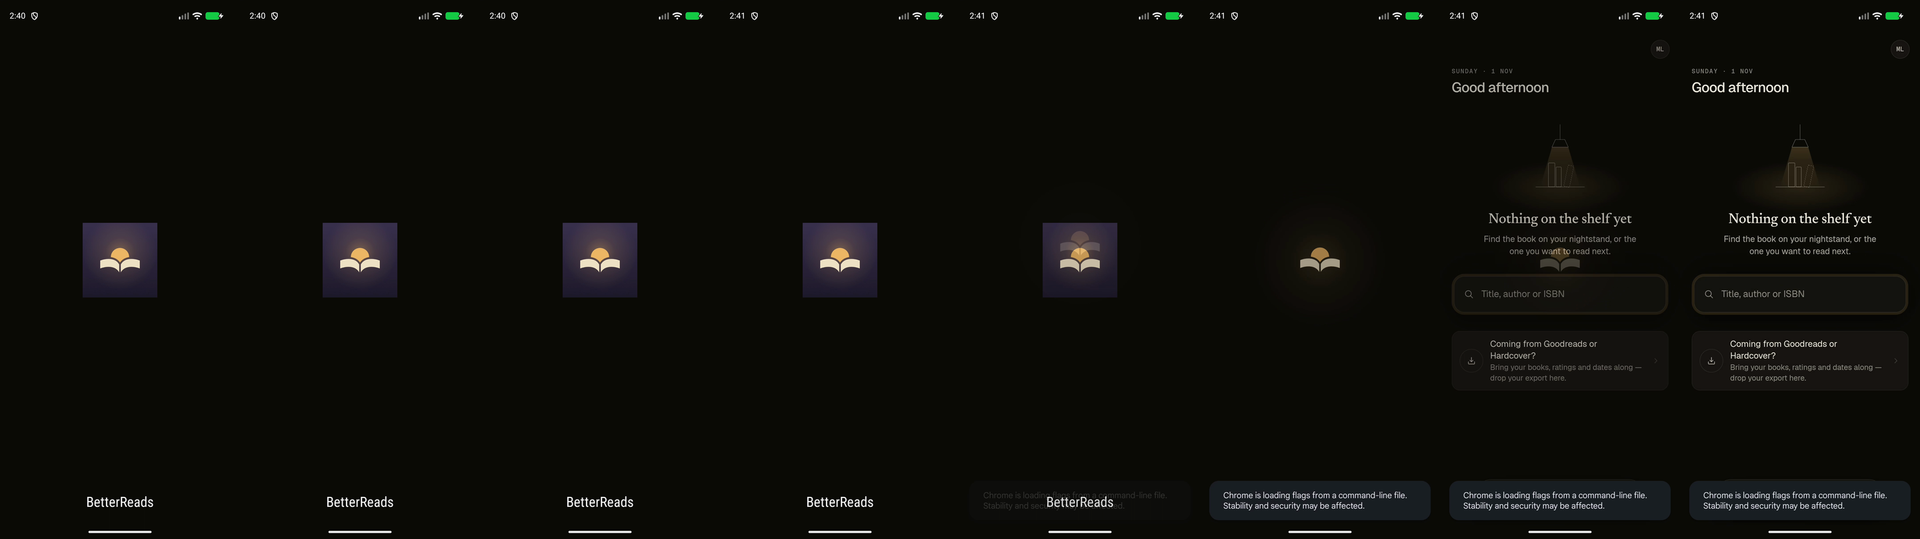
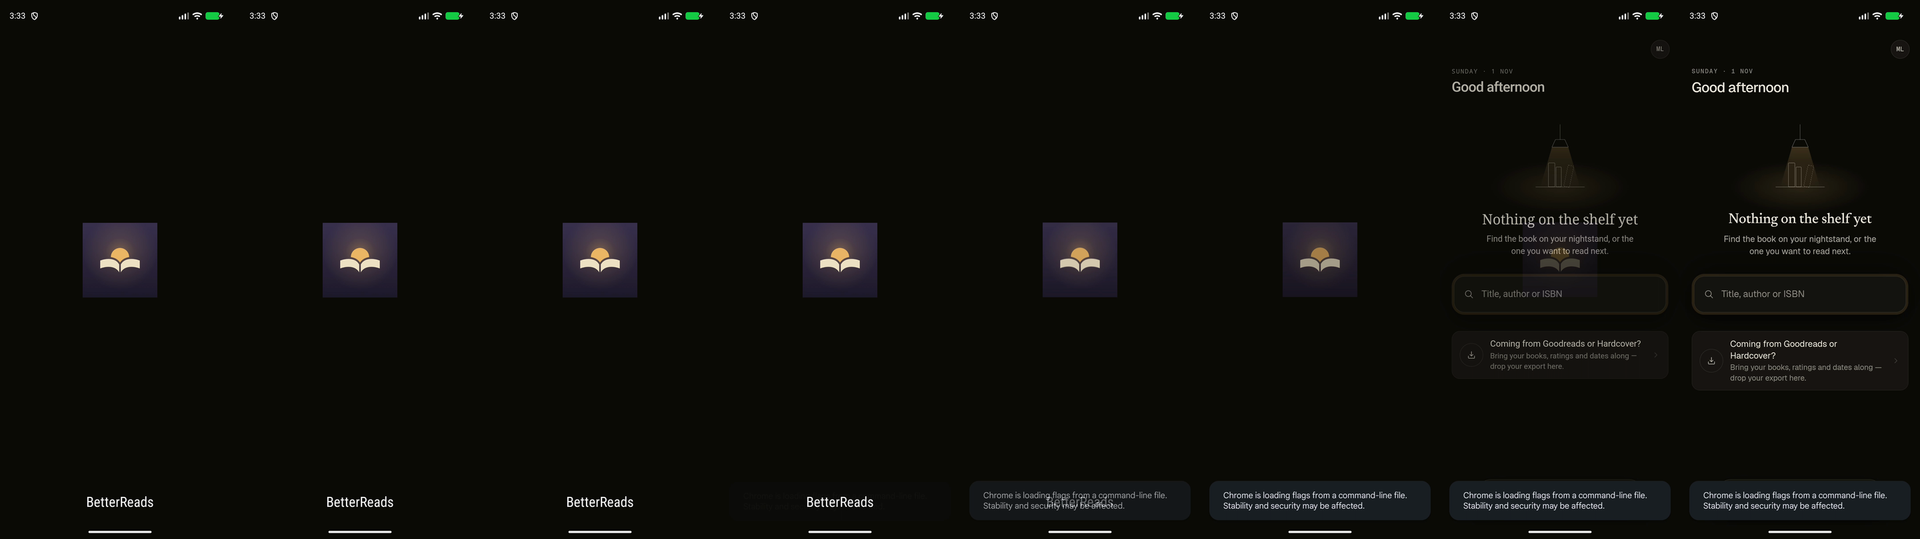
feat(brand): the launch frame draws the launch screen's tile too
The frame's first paint is now the launch screen's whole picture: the night room, the icon's plum
tile with the mark in it, and the app's name at the foot, all at the places the system drew them
(measured on the emulator against Chrome's own launch screen). One `instant` after that paint the
tile and the name dissolve into the room over `wave` while the lamp's glow comes up out of the mark,
so the handover is invisible and what changes afterwards is the light, not the picture.

The tile is CSS (a linear gradient in the icon's own two room colours and a radial dome for its
glow), so it costs no bytes and can dissolve; the mark stays the generated transparent PNG inlined
as a data URI, and the name is set in the system's face so no web font has to arrive for it. Tests
pin the tile's colours to design/icons/app/icon.svg and the name to app.name in the message files.

docs/MOTION.md and docs/DESIGN.md describe the frame as it now is.

diff --git a/web/app/spa-loading-template.html b/web/app/spa-loading-template.html
@@ -1,19 +1,26 @@
 <!-- The launch takeover (docs/plans/new-logo.md, B; docs/MOTION.md, "Launch takeover").
-     This is the installed app's first paint: the same picture the system drew as its launch screen — the night
-     room, the mark in the place the launch screen had it — so the handover from that static splash is invisible,
-     and the lamp's glow can swell out of the mark into the room (the styles are in app/assets/css/main.css, under
-     "The launch takeover": the app's blocking stylesheet, so they are there at this paint).
-     Nuxt renders this file into the document (spaLoadingTemplate; a file at app/spa-loading-template.html is found
-     by itself), before any JavaScript runs, and removes its wrapper when the app has mounted;
-     app/plugins/launch-takeover.client.ts takes the frame over and lets it leave. A browser tab never shows it
+     This is the installed app's first paint, and it is the picture the system drew as its launch screen: the night
+     room, the icon's tile (its plum room, its glow and the mark) and the app's name at the foot — so the handover
+     from that static splash to the page is invisible. Then the tile dissolves over `wave` into the room while the
+     lamp's glow swells out of the mark: from there the frame is the mark alone on the night room (the mark is
+     underneath the tile, on the same pixels, so nothing moves as the tile goes). The styles are in
+     app/assets/css/main.css, under "The launch takeover" — the app's blocking stylesheet, so they are there at this
+     paint.
+     Nuxt renders this file into the document (spaLoadingTemplate; a file at app/spa-loading-template.html is found by
+     itself), before any JavaScript runs, and removes its wrapper when the app has mounted;
+     app/plugins/launch-takeover.client.ts takes the frame over and lets it go. A browser tab never shows it
      (`@media (display-mode: standalone)`), and a page the SPA navigates to loads no document, so this only ever
      appears on a cold start of the installed app.
-     The mark is a transparent PNG, generated from the icon by scripts/render-icons.mjs (the 108 dp canvas with its
-     plum room taken away), inlined as a data URI so the first paint waits on nothing, and at three device pixels
-     per CSS pixel so its edges are sharp on a phone. -->
+     The mark is the icon's own 108 dp canvas with its room taken away: a PNG generated by scripts/render-icons.mjs
+     and inlined as a data URI, so the first paint fetches nothing. The tile around it is painted in CSS (main.css),
+     so that it can dissolve; its two room colours are the icon's own, and tests/launch-takeover.test.ts pins them to
+     design/icons/app/icon.svg. The name is the brand, the same in both message files and not translated; the static
+     frame cannot read them, so a test pins the two together. -->
 <div class="launch-frame" data-launch-frame data-theme="dark" aria-hidden="true">
   <div class="launch-frame-glow"></div>
+  <div class="launch-frame-tile"></div>
   <!-- launch-mark:start -->
[1 lines of base64/hex data omitted]
   <!-- launch-mark:end -->
+  <p class="launch-frame-name">BetterReads</p>
 </div>

diff --git a/web/app/assets/css/main.css b/web/app/assets/css/main.css
@@ -585,16 +585,59 @@ html:is([data-profile-transition='back'], [data-push-transition='back'])::view-t
 }
 .launch-frame > * {
   grid-area: 1 / 1;
+}
+.launch-frame-glow,
+.launch-frame-mark,
+.launch-frame-tile {
   translate: 0 calc(-1 * var(--launch-frame-lift));
 }
 .launch-frame-mark {
   width: var(--launch-frame-icon);
   height: auto;
 }
-/* The one motion here: the lamp's light. It starts one `instant` after the frame is painted, so the first
-   frame of the handover is the launch screen's own, and it holds its end until the app is ready (the frame
-   leaves over `exit`, which may cut the swell short). The resting glow is the light the launch screen's icon
-   held; the end is the room lit. */
+/* The launch screen's tile around the mark: the icon's own plum room (#3c3251 → #211b2e) and the dome of its glow,
+   exactly as `design/icons/app/icon.svg` draws them (tests/launch-takeover.test.ts pins the two colours to that file),
+   on the icon's own canvas. Painted in CSS so it can dissolve; the launch screen draws it as a square, mask and all.
+   It is the one thing a member sees change at the handover: it dissolves into the night room over `wave`, leaving the
+   mark alone with the lamp's light swelling out of it, and it starts one `instant` after the paint, with that glow, so
+   the handover's first frames are the launch screen's own. The mark sits underneath it, on the same pixels, so nothing
+   moves as the tile goes. */
+.launch-frame-tile {
+  width: var(--launch-frame-icon);
+  height: var(--launch-frame-icon);
+  background:
+    radial-gradient(
+      circle calc(var(--launch-frame-icon) / 2) at 50% 39.9%,
+      color-mix(in srgb, var(--color-accent) 40%, transparent),
+      color-mix(in srgb, var(--color-accent) 14%, transparent) 40%,
+      transparent
+    ),
+    linear-gradient(180deg, #3c3251, #211b2e);
+  animation: launch-picture var(--duration-wave) var(--ease-wave) var(--duration-instant) both;
+}
+/* The app's name, where the launch screen draws it (the system's own face, Roboto on Android: no web font to wait
+   for, and the same glyphs), on the same clock as the tile. */
+.launch-frame-name {
+  position: absolute;
+  inset-inline: 0;
+  bottom: 24px;
+  margin: 0;
+  font-family: Roboto, 'Helvetica Neue', Arial, sans-serif;
+  font-size: 25px;
+  font-weight: 400;
+  line-height: 1;
+  text-align: center;
+  color: white;
+  animation: launch-picture var(--duration-wave) var(--ease-wave) var(--duration-instant) both;
+}
+@keyframes launch-picture {
+  to {
+    opacity: 0;
+  }
+}
+/* The one motion here: the lamp's light. It comes up from nothing (the paint before it is the launch screen's own
+   picture, tile and all) one `instant` after the frame is painted — the delay holds its `from` state — and it
+   holds its end until the app is ready (the frame leaves over `exit`, which may cut the swell short). */
 .launch-frame-glow {
   width: calc(2 * var(--launch-frame-icon));
   height: calc(2 * var(--launch-frame-icon));
@@ -605,24 +648,30 @@ html:is([data-profile-transition='back'], [data-push-transition='back'])::view-t
     color-mix(in srgb, var(--color-accent) 10%, transparent) 45%,
     transparent
   );
-  opacity: 0.5;
-  scale: 0.9;
+  opacity: 0;
+  scale: 0.85;
   animation: launch-swell var(--duration-wave) var(--ease-wave) var(--duration-instant) both;
 }
 @keyframes launch-swell {
   from {
-    opacity: 0.5;
-    scale: 0.9;
+    opacity: 0;
+    scale: 0.85;
   }
   to {
     opacity: 1;
     scale: 1.6;
   }
 }
-/* Reduce Motion: no swell. The frame keeps its resting glow (the launch screen's own light) and the plugin
-   crossfades it away over `standard` (docs/MOTION.md, Reduce Motion). */
+/* Reduce Motion: no swell and no dissolve. The frame stays the launch screen's own picture — its tile, its name and
+   the light inside the tile, nothing outside it — and the plugin crossfades it away over `standard`
+   (docs/MOTION.md, Reduce Motion). */
 @media (prefers-reduced-motion: reduce) {
   .launch-frame-glow {
+    animation: none;
+    opacity: 0;
+  }
+  .launch-frame-tile,
+  .launch-frame-name {
     animation: none;
   }
 }

diff --git a/web/e2e/android/launch.ts b/web/e2e/android/launch.ts
@@ -266,6 +266,31 @@ async function openChrome() {
 const app = (browser: Browser) => browser.contexts().flatMap((context) => context.pages()).find((candidate) => candidate.url().startsWith(args.base!))
 
 /**
+ * The frame's own picture, measured the way the launch screen's was: the frame is in no document once the app has
+ * mounted, so the template's markup is stood up in the running page for one screenshot — the styles and the media
+ * query are the app's own, the mark is this build's generated PNG — and taken away again. Both pictures are then in
+ * the same coordinates (the device's), which is what makes them comparable.
+ */
+async function frameInPage(page: Page, name: string) {
+  const shown = await page.evaluate(() => {
+    const frame = document.createElement('div')
+    frame.className = 'launch-frame'
+    frame.setAttribute('data-launch-frame', '')
+    frame.setAttribute('data-theme', 'dark')
+    frame.innerHTML =
+      '<div class="launch-frame-glow"></div><div class="launch-frame-tile"></div>' +
+      '<img class="launch-frame-mark" src="/launch-mark-384.png" width="128" height="128" alt="">' +
+      '<p class="launch-frame-name">BetterReads</p>'
+    document.body.append(frame)
+    return getComputedStyle(frame).display
+  })
+  const file = join(OUT, `${name}-frame.png`)
+  writeFileSync(file, adb('exec-out', 'screencap', '-p'))
+  await page.evaluate(() => document.querySelector('[data-launch-frame]')?.remove())
+  return { file, display: shown, ...(await measure(file)) }
+}
+
+/**
  * The app once it has mounted: the frame has to be gone, and nothing of it left anywhere.
  */
 async function afterMount(page: Page) {
@@ -318,7 +343,10 @@ async function main() {
   const browser = await openChrome()
   const page = app(browser)
   if (!page) throw new Error(`No page of ${args.base} in Chrome: the app is open, but not where this script looked.`)
+  // tsx (esbuild, keepNames) wraps the functions inside page.evaluate in a `__name` helper the page lacks.
+  await page.evaluate('window.__name = (fn) => fn')
   const after = await afterMount(page)
+  const inPage = await frameInPage(page, args.name!)
 
   const report = {
     app: args.base,
@@ -326,6 +354,7 @@ async function main() {
     recording: { file: launch.mp4, frames: launch.count, strip: stripResult },
     launchScreen: { file: screen.file, device: measured, css: { tile: css(measured.tile), mark: css(measured.mark) } },
     takeover: takeover && { file: takeover.file, mark: css(takeover.mark) },
+    frame: { file: inPage.file, display: inPage.display, device: { tile: inPage.tile, mark: inPage.mark }, css: { tile: css(inPage.tile), mark: css(inPage.mark) } },
     afterMount: after,
   }
   writeFileSync(join(OUT, `${args.name}.json`), JSON.stringify(report, null, 2))

diff --git a/web/tests/launch-takeover.test.ts b/web/tests/launch-takeover.test.ts
@@ -71,6 +71,23 @@ describe('the first-paint frame', () => {
     expect(png.readUInt8(25)).toBe(6)
   })
 
+  it('draws the launch screen’s own tile and name, pinned to their sources', () => {
+    // The tile is CSS (so it can dissolve); its room colours are the icon's, and the icon is what the launch screen
+    // draws. The name is the brand from the message files, which the static frame cannot read.
+    const icon = file('../design/icons/app/icon.svg')
+    const stops = [...icon.matchAll(/<stop offset="[^"]*" stop-color="(#[0-9a-f]{6})"/g)].map((match) => match[1])
+    expect(css).toContain(`linear-gradient(180deg, ${stops[0]}, ${stops[1]})`)
+    expect(template).toContain('<div class="launch-frame-tile"></div>')
+    const messages = JSON.parse(file('i18n/locales/en.json')) as { app: { name: string } }
+    expect(template).toContain(`<p class="launch-frame-name">${messages.app.name}</p>`)
+    expect(JSON.parse(file('i18n/locales/de.json')).app.name).toBe(messages.app.name)
+  })
+
+  it('dissolves the tile and the name on the swell’s tokens, and not with Reduce Motion', () => {
+    expect(css).toContain('animation: launch-picture var(--duration-wave) var(--ease-wave) var(--duration-instant) both')
+    expect(/@media \(prefers-reduced-motion: reduce\) \{[\s\S]*?\.launch-frame-tile,[\s\S]*?animation: none;/s.test(css)).toBe(true)
+  })
+
   it('is shown in the installed app only', () => {
     expect(css).toContain('@media (display-mode: standalone)')
     expect(/\.launch-frame \{[\s\S]*?display: none;/.test(css)).toBe(true)

diff --git a/docs/MOTION.md b/docs/MOTION.md
@@ -53,16 +53,17 @@ dev server showed it running (`tests/motion.test.ts`, and on the emulator `e2e/a
 - **Launch takeover.** Android (and Chrome, for the shortcut it pins) draws an installed app's launch screen
   itself, from the manifest's `background_color` and its icon: a static picture that cannot animate. The page's
   own first paint takes over from it: the frame in `app/spa-loading-template.html` draws the same picture — the
-  night room, the mark exactly where the launch screen had it — in the document before any JavaScript runs, with
-  the mark a generated transparent PNG inlined as a data URI (nothing is fetched, so nothing waits). One `instant`
-  after that paint the lamp's glow swells out of the mark into the room, over `wave` on `wave`; then the frame
-  leaves as the app arrives: `plugins/launch-takeover.client.ts` fades it out over `exit` on `exit` once the app
-  has mounted. **It never waits for the animation**: the app mounts as fast as it always did, and a quick one
-  cuts the swell short. With Reduce Motion there is no swell and the frame crossfades over `standard`. Only a cold
-  start of the installed app shows it (`display-mode: standalone`): a browser tab keeps the plain background it
-  always had, and a page the SPA navigates to loads no document at all. The launch screen also draws the icon's
-  plum room; the frame draws the mark alone (the owner's wish), so the tile's edge is what fades into the room as
-  the page takes over — the mark itself lands on the pixel. Its numbers are the launch screen's, measured against
+  night room, the icon's plum tile with the mark in it, and the app's name at the foot, all exactly where the
+  launch screen has them — in the document before any JavaScript runs (the mark is a generated PNG inlined as a
+  data URI, the tile is CSS over it, the name is set in the system's own face: nothing is fetched, so nothing
+  waits). One `instant` after that paint the tile dissolves into the room over `wave` on `wave` while the lamp's
+  glow swells out of the mark, so the frame is the mark alone on the night room; then it leaves as the app
+  arrives: `plugins/launch-takeover.client.ts` fades it out over `exit` on `exit` once the app has mounted.
+  **It never waits for the animation**: the app mounts as fast as it always did, and a quick one cuts the swell
+  short. With Reduce Motion neither the dissolve nor the swell runs — the frame stays the launch screen's own
+  picture and crossfades away over `standard`. Only a cold start of the installed app shows it
+  (`display-mode: standalone`): a browser tab keeps the plain background it always had, and a page the SPA
+  navigates to loads no document at all. Its numbers are the launch screen's, measured against
   the real one on the Android emulator (`e2e/android/launch.ts`, docs/TESTING.md; the numbers in `main.css`, "The
   launch takeover"); the decision (installed app, cold start, Reduce Motion) is `utils/launchTakeover.ts`, pinned
   by `tests/launch-takeover.test.ts`.

diff --git a/docs/DESIGN.md b/docs/DESIGN.md
@@ -60,12 +60,12 @@ Light is D's *Day*, dark is D's *Night*. There is no third ("Dim") theme.
 - **The splash is the app's first frame.** Android draws an installed app's launch screen itself, from the
   manifest's `background_color` (the night surface) and its icon: the plum tile's mark in the room, static and
   impossible to animate. So the app's own first paint is the same picture — the frame in
-  `app/spa-loading-template.html` puts the night room and the mark on the screen before any JavaScript, and the
-  lamp's glow then swells into the room while the app boots (docs/MOTION.md, "Launch takeover"). The handover is
-  invisible where it can be: the mark is the launch screen's own canvas at its measured size and place, drawn as
-  a generated transparent PNG (`scripts/render-icons.mjs`, `public/launch-mark-*.png`, inlined so nothing is
-  fetched). The frame draws no plum tile (the mark alone, on the room), so what a member sees change at the
-  handover is the tile's edge fading out; the launch screen's own name at the foot of the screen goes with it.
+  `app/spa-loading-template.html` puts the night room, the icon's plum tile with the mark in it and the app's name
+  at the foot on the screen before any JavaScript, at the launch screen's own size and place (measured on the
+  emulator, docs/MOTION.md "Launch takeover") — and the tile then dissolves into the room while the lamp's glow
+  swells out of the mark, so the frame becomes the mark alone and the room lit. The mark is a generated
+  transparent PNG (`scripts/render-icons.mjs`, `public/launch-mark-*.png`, inlined so nothing is fetched); the
+  tile is CSS around it, in the icon's own two room colours, because it is the one thing that has to dissolve.
   Only the installed app's cold start shows the frame: a browser tab keeps the plain background it always had.
 - The preference is a setting of the device, not of the member: signing out keeps it, so the way
   in looks the way the member left it.
